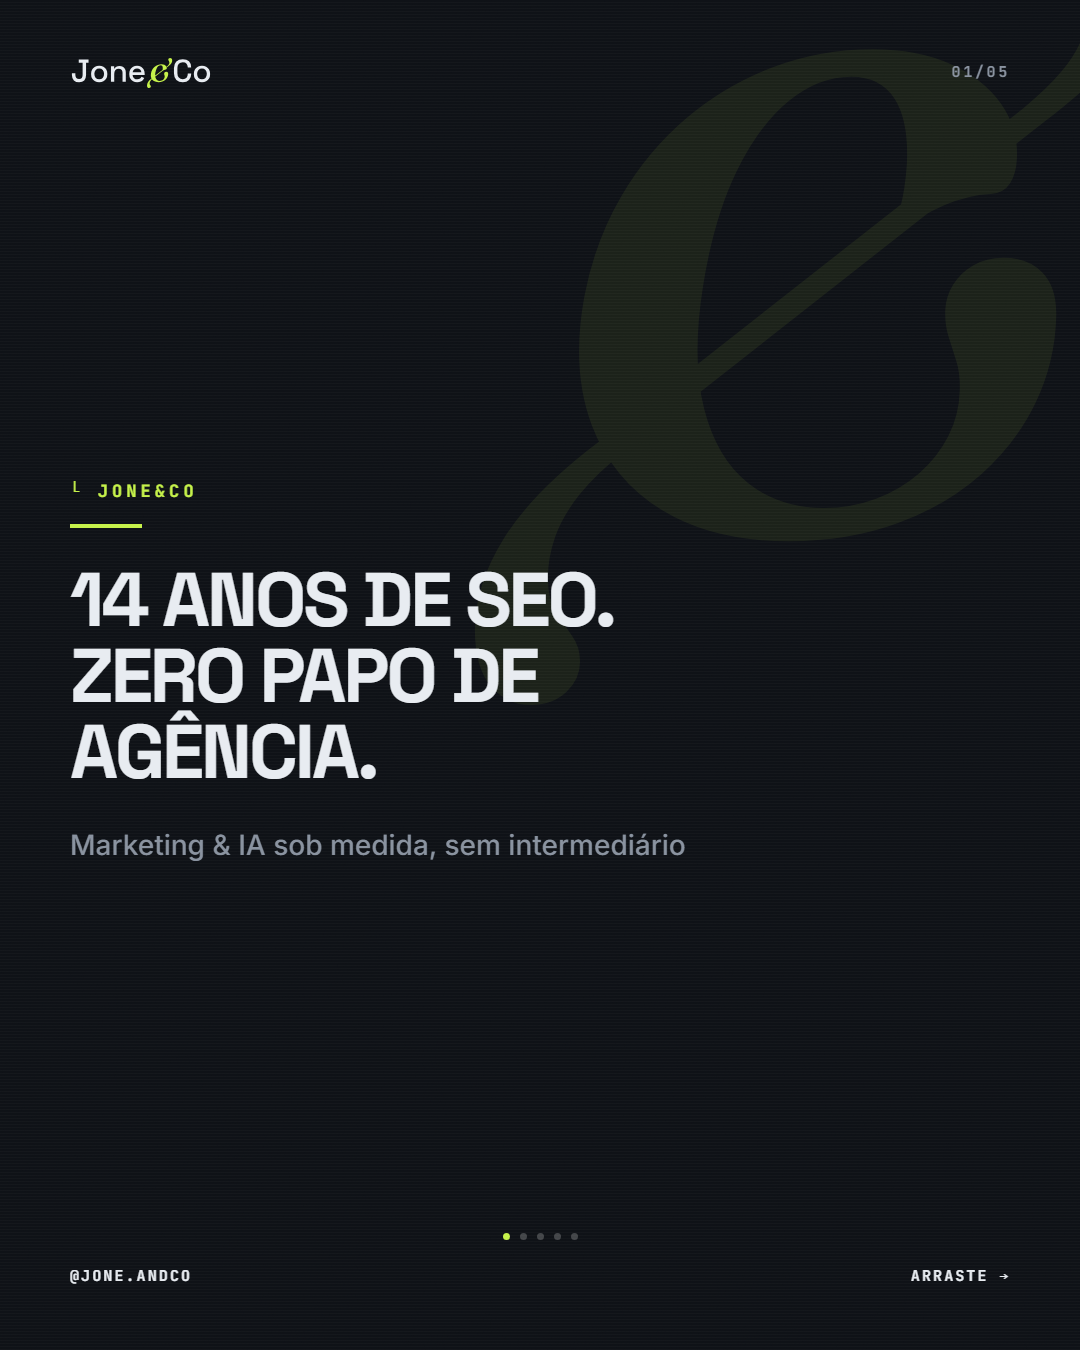
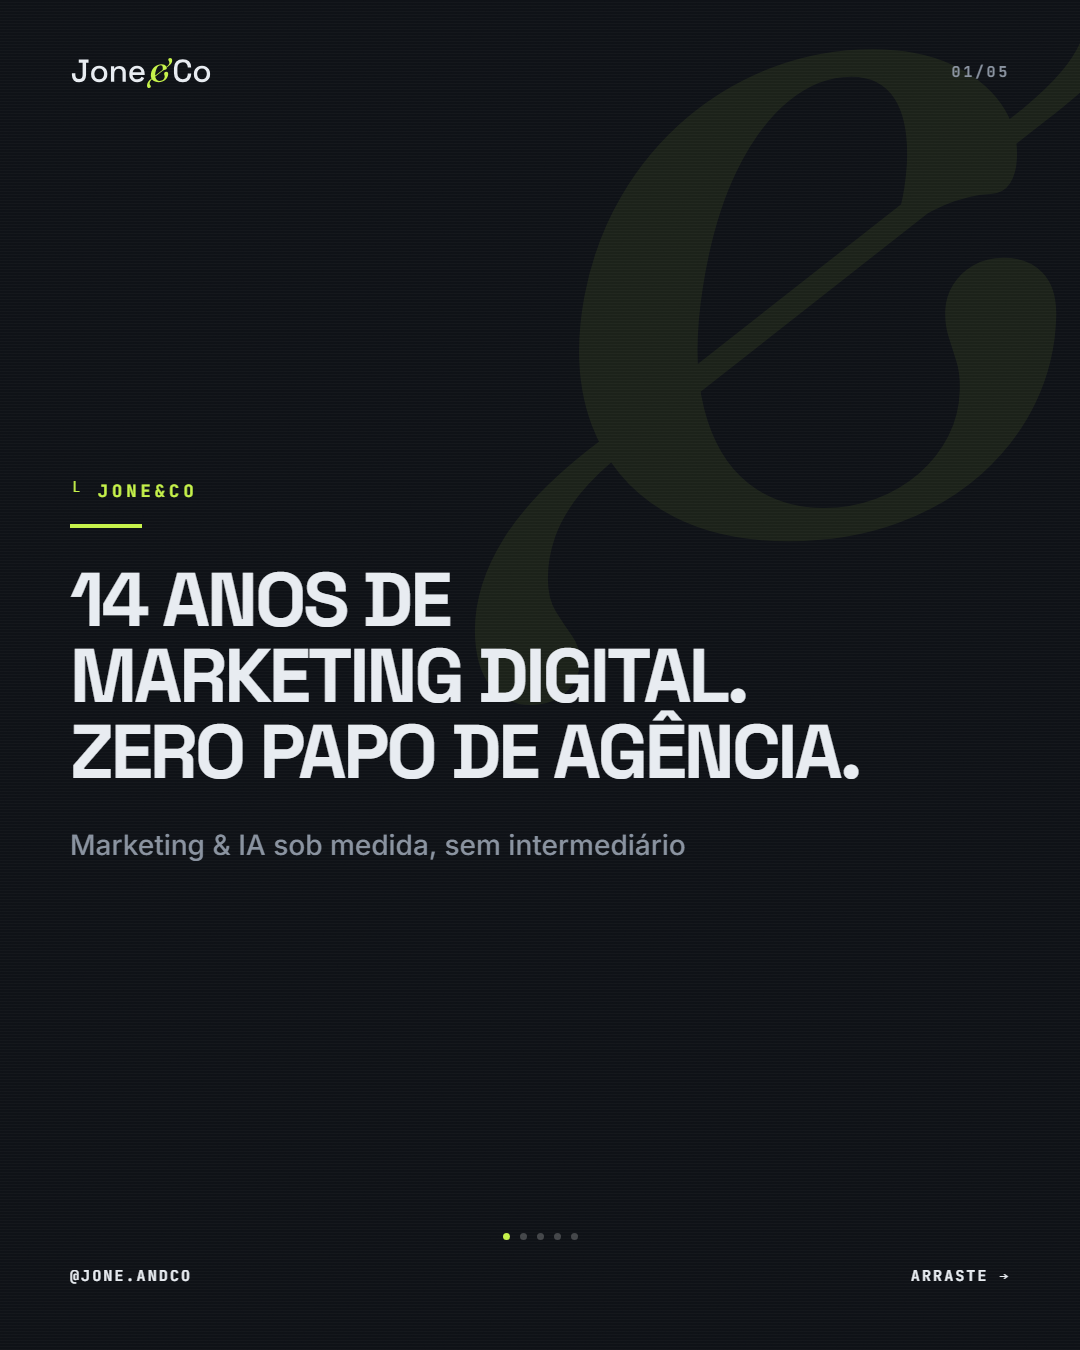
carrossel: ajusta texto dos slides 1 e 2 do post de apresentação

Changed region(s): [[0.0611, 0.4044, 0.7944, 0.5911]]

diff --git a/marketing/conteudo/carrossel-apresentacao-jone-co-2026-07-22/carrossel.html b/marketing/conteudo/carrossel-apresentacao-jone-co-2026-07-22/carrossel.html
@@ -193,7 +193,7 @@
   <div class="content" style="top: 480px;">
     <div class="kicker on-dark">&#9492; JONE&amp;CO</div>
     <div class="regua on-dark"></div>
-    <h1 class="title">14 anos de SEO.<br>Zero papo de<br>agência.</h1>
+    <h1 class="title">14 anos de<br>marketing digital.<br>Zero papo de agência.</h1>
     <div class="subtitle on-dark">Marketing &amp; IA sob medida, sem intermediário</div>
   </div>
   <div class="dots">
@@ -212,7 +212,7 @@
     <div class="kicker on-accent">&#9492; QUEM SOU</div>
     <div class="regua on-accent"></div>
     <h2 class="h2 on-accent">Jonesson<br>Oliveira</h2>
-    <div class="body-text on-accent">14 anos de marketing digital, sempre com o pé no SEO. Vi de perto o que faz um negócio ser encontrado <span class="hl-violet">(e o que é só modinha de LinkedIn)</span>.</div>
+    <div class="body-text on-accent">Sozinho eu cuido de estratégia, execução e entrega, sem camada de agência no meio. Vi de perto o que faz um negócio ser encontrado <span class="hl-violet">(e o que é só modinha de LinkedIn)</span>.</div>
     <div class="proof-label on-accent">&#9492; passagem por</div>
     <div class="proof-logos on-accent">
       <img src="../../../../JoneAndCo-Site/public/img/logos/logo-btg-pactual.svg" alt="BTG Pactual">
